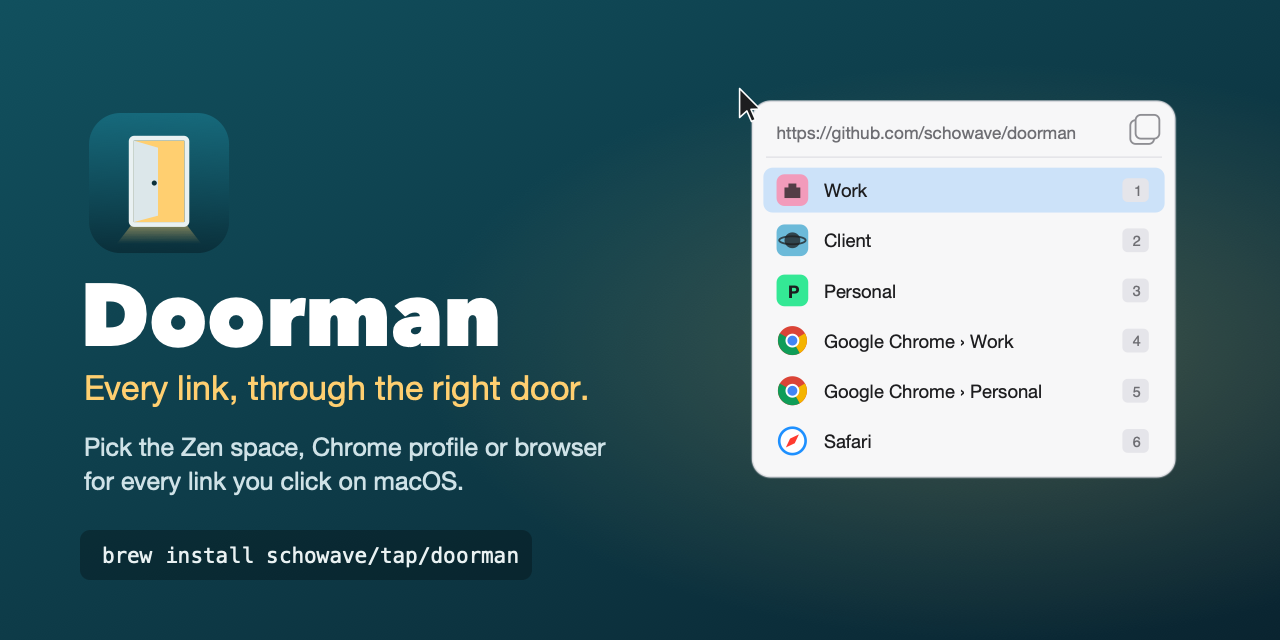
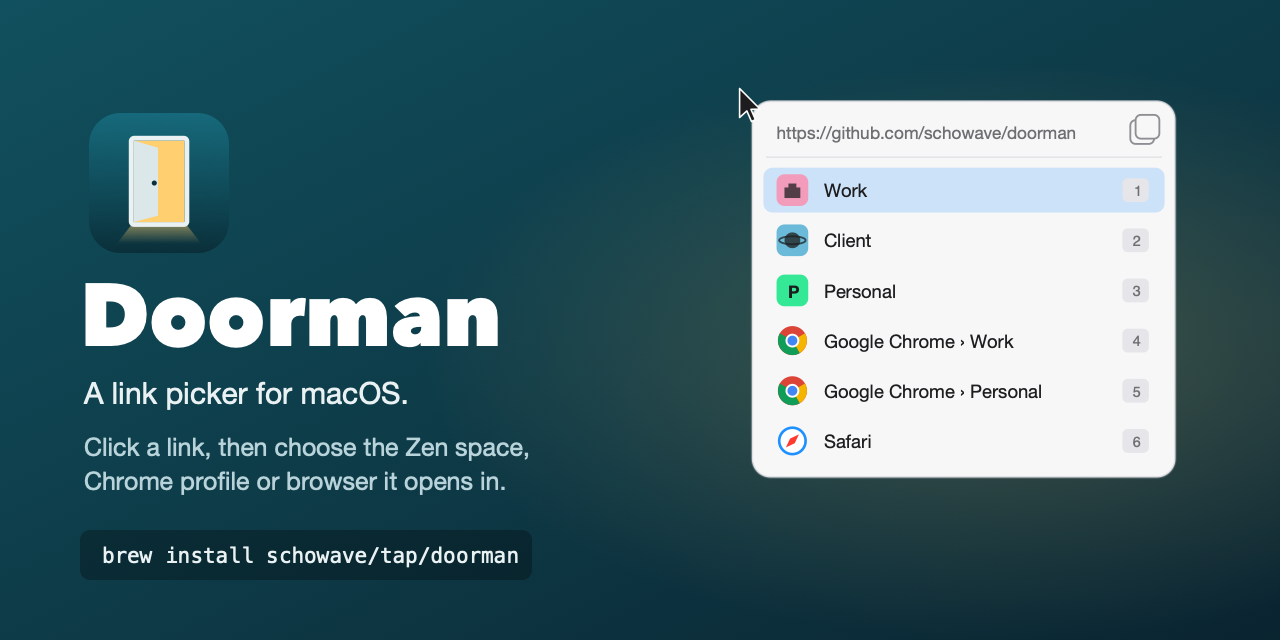
Social preview: plain description instead of a slogan

Changed region(s): [[0.0625, 0.6875, 0.4688, 0.7812], [0.0625, 0.5938, 0.4688, 0.6562]]

diff --git a/docs/social/compose.py b/docs/social/compose.py
@@ -42,9 +42,9 @@ def main():
 
   <g transform="translate(72 96) scale(0.17)">{icon}</g>
   <text x="80" y="346" font-family="Avenir Next, Helvetica Neue, sans-serif" font-size="88" font-weight="700" fill="#ffffff">Doorman</text>
-  <text x="84" y="400" font-family="{FONT}" font-size="34" fill="#ffcf70">Every link, through the right door.</text>
-  <text x="84" y="456" font-family="{FONT}" font-size="25" fill="#cfe2e7">Pick the Zen space, Chrome profile or browser</text>
-  <text x="84" y="490" font-family="{FONT}" font-size="25" fill="#cfe2e7">for every link you click on macOS.</text>
+  <text x="84" y="404" font-family="{FONT}" font-size="30" fill="#e9f1f2">A link picker for macOS.</text>
+  <text x="84" y="456" font-family="{FONT}" font-size="25" fill="#b9d3da">Click a link, then choose the Zen space,</text>
+  <text x="84" y="490" font-family="{FONT}" font-size="25" fill="#b9d3da">Chrome profile or browser it opens in.</text>
   <rect x="80" y="530" width="452" height="50" rx="10" fill="#000000" fill-opacity="0.28"/>
   <text x="102" y="563" font-family="Menlo, monospace" font-size="21" fill="#e9f1f2">brew install schowave/tap/doorman</text>
 
